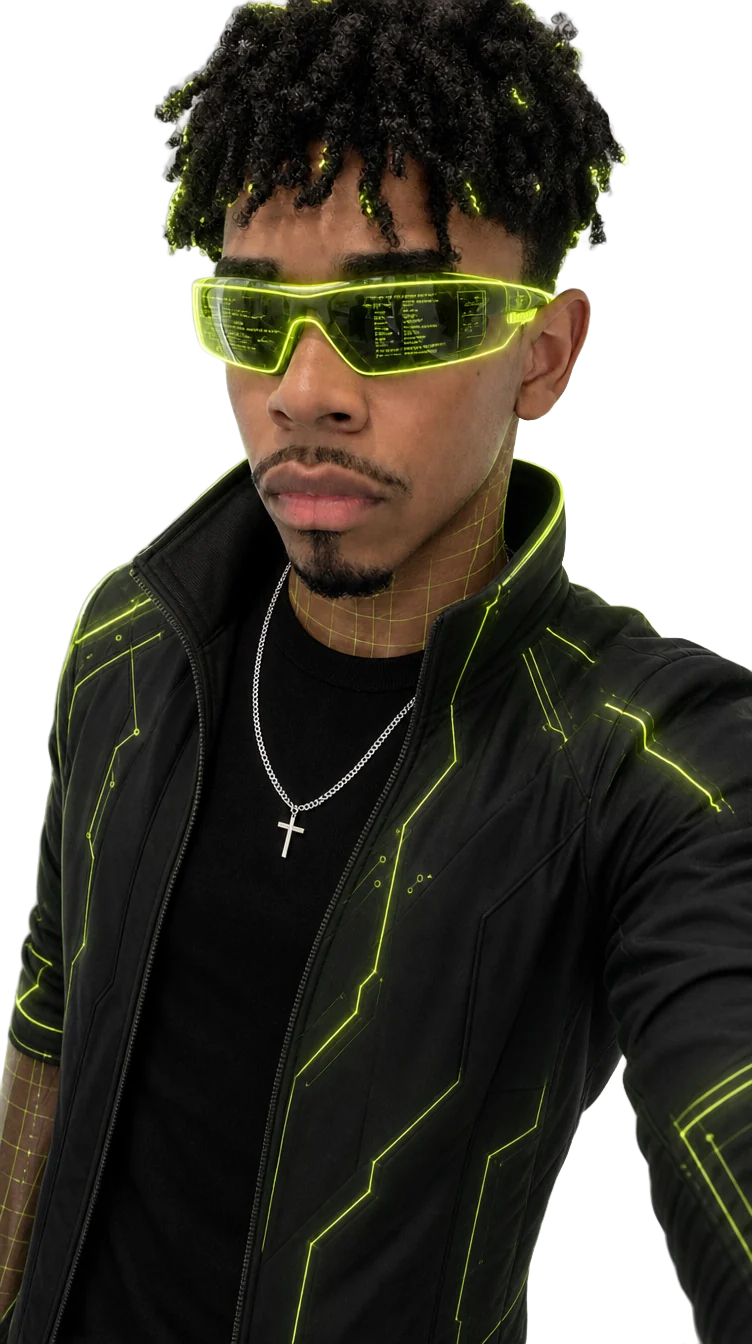
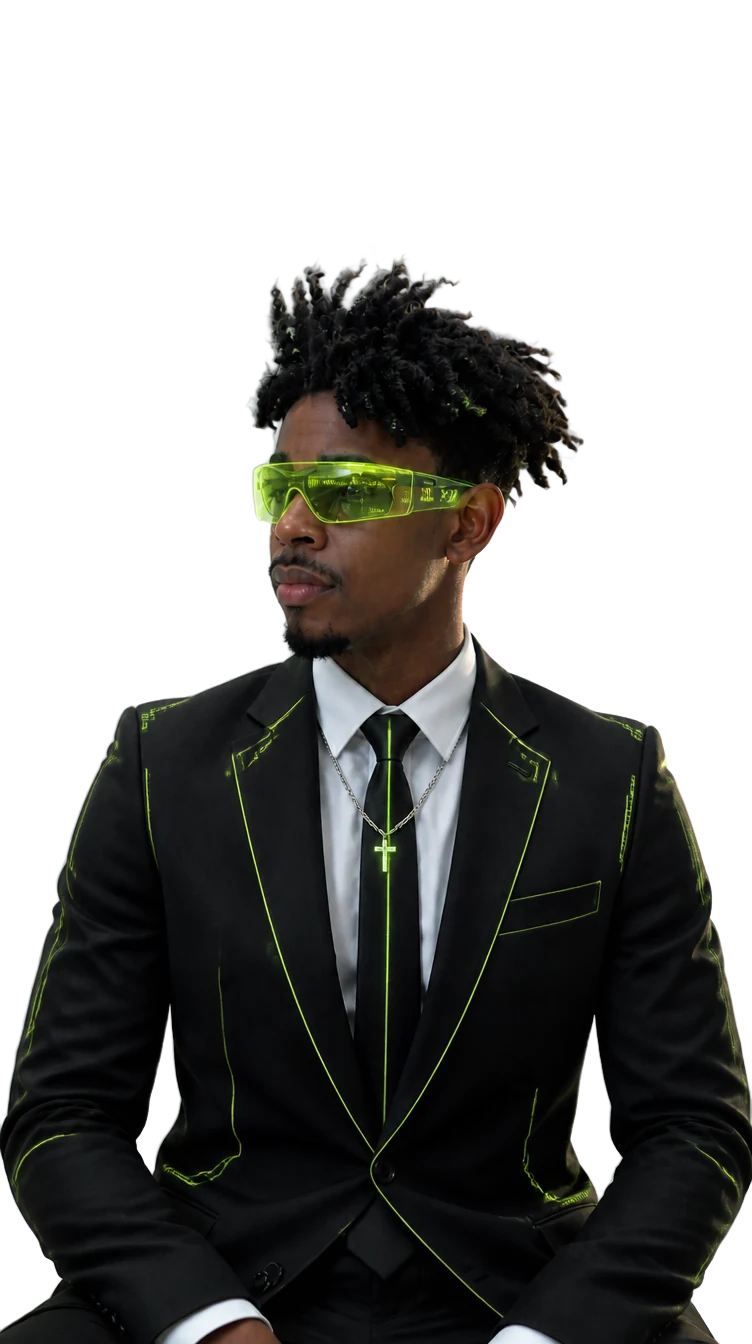
Troca a foto do topo pela versão de terno (e a versão cyber correspondente)

diff --git a/portfolio-luiz.html b/portfolio-luiz.html
@@ -630,7 +630,7 @@ html.rm *,html.rm *::before,html.rm *::after{animation-duration:.001ms!important
     <div class="hrow solid"><span>Luiz <em>Machado</em></span><span>Luiz <em>Machado</em></span><span>Luiz <em>Machado</em></span><span>Luiz <em>Machado</em></span></div>
   </div>
   <div class="figure" id="figure">
-    <img id="front" src="assets/luiz-front.webp" alt="Luiz Machado de óculos escuros, camiseta preta e corrente prata" width="899" height="1600" fetchpriority="high">
+    <img id="front" src="assets/luiz-front.webp" alt="Luiz Machado de terno preto, gravata e óculos escuros" width="752" height="1344" fetchpriority="high">
     <canvas id="reveal" aria-hidden="true"></canvas>
   </div>
   <p class="hint mono hero-hint-m" aria-hidden="true"><i></i><span class="hintText">Arraste para ver o que está por trás</span></p>
@@ -1083,7 +1083,7 @@ const ld=$('#loader');ld.style.animation='none';
 const num=$('.ld-num'),btn=$('.ld-enter'),btnT=$('.ld-enter-t'),logEl=$('.ld-log'),inp=$('.ld-input'),cntEl=$('.ld-cnt'),alt=$('.ld-alt');
 const T0=performance.now();
 const log=(t,cls)=>{const p=document.createElement('p');p.textContent=t;if(cls)p.className=cls;logEl.appendChild(p);while(logEl.children.length>14)logEl.firstChild.remove()};
-const kb=url=>{try{const e=performance.getEntriesByName(new URL(url,location.href).href)[0];const b=e&&(e.encodedBodySize||e.transferSize);return b?` · ${Math.max(1,Math.round(b/1024))} KB`:''}catch(_){return''}};
+const kb=url=>{try{const e=performance.getEntriesByName(new URL(url,location.href).href)[0];const b=e&&(e.decodedBodySize||e.encodedBodySize);return b>2048?` · ${Math.round(b/1024)} KB`:(e?' · cache':'')}catch(_){return''}};
 const fname=u=>decodeURIComponent(u.split('/').pop().split('?')[0]);
 log('> npm run portfolio');
 log(`[ok] GSAP ${gsap.version} · ScrollTrigger${window.Lenis?' · Lenis':''}`,'ok');

diff --git a/site/index.html b/site/index.html
@@ -646,7 +646,7 @@ html.rm *,html.rm *::before,html.rm *::after{animation-duration:.001ms!important
     <div class="hrow solid"><span>Luiz <em>Machado</em></span><span>Luiz <em>Machado</em></span><span>Luiz <em>Machado</em></span><span>Luiz <em>Machado</em></span></div>
   </div>
   <div class="figure" id="figure">
-    <img id="front" src="assets/luiz-front.webp" alt="Luiz Machado de óculos escuros, camiseta preta e corrente prata" width="899" height="1600" fetchpriority="high">
+    <img id="front" src="assets/luiz-front.webp" alt="Luiz Machado de terno preto, gravata e óculos escuros" width="752" height="1344" fetchpriority="high">
     <canvas id="reveal" aria-hidden="true"></canvas>
   </div>
   <p class="hint mono hero-hint-m" aria-hidden="true"><i></i><span class="hintText">Arraste para ver o que está por trás</span></p>
@@ -1099,7 +1099,7 @@ const ld=$('#loader');ld.style.animation='none';
 const num=$('.ld-num'),btn=$('.ld-enter'),btnT=$('.ld-enter-t'),logEl=$('.ld-log'),inp=$('.ld-input'),cntEl=$('.ld-cnt'),alt=$('.ld-alt');
 const T0=performance.now();
 const log=(t,cls)=>{const p=document.createElement('p');p.textContent=t;if(cls)p.className=cls;logEl.appendChild(p);while(logEl.children.length>14)logEl.firstChild.remove()};
-const kb=url=>{try{const e=performance.getEntriesByName(new URL(url,location.href).href)[0];const b=e&&(e.encodedBodySize||e.transferSize);return b?` · ${Math.max(1,Math.round(b/1024))} KB`:''}catch(_){return''}};
+const kb=url=>{try{const e=performance.getEntriesByName(new URL(url,location.href).href)[0];const b=e&&(e.decodedBodySize||e.encodedBodySize);return b>2048?` · ${Math.round(b/1024)} KB`:(e?' · cache':'')}catch(_){return''}};
 const fname=u=>decodeURIComponent(u.split('/').pop().split('?')[0]);
 log('> npm run portfolio');
 log(`[ok] GSAP ${gsap.version} · ScrollTrigger${window.Lenis?' · Lenis':''}`,'ok');
